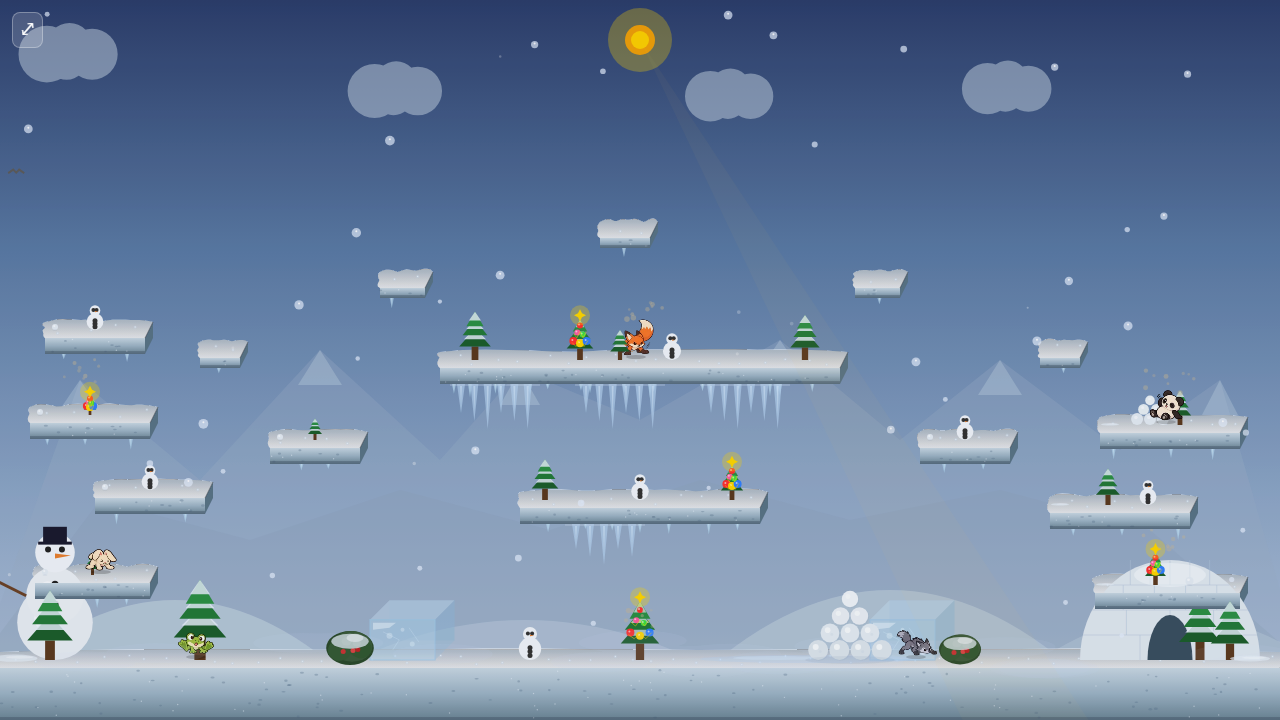
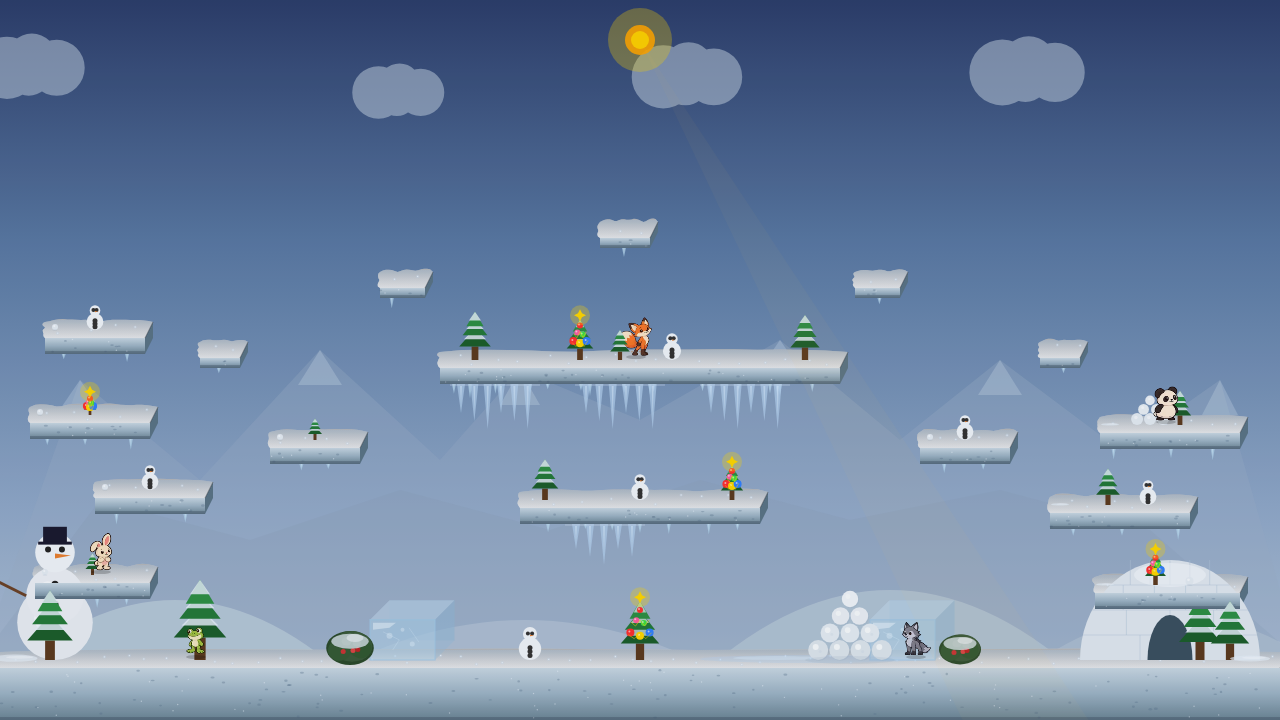
Add Winter Lake background direction studies

diff --git a/docs/mockups/winter-lake/variants.ts b/docs/mockups/winter-lake/variants.ts
@@ -1,0 +1,139 @@
+import type { Ctx2D } from '../../../src/engine/types';
+
+type Point = readonly [number, number];
+
+export const VARIANTS = ['current', 'quiet-shore', 'glacial-basin', 'violet-inlet'] as const;
+export type Variant = (typeof VARIANTS)[number];
+
+export const descriptions: Record<Exclude<Variant, 'current'>, string> = {
+  'quiet-shore': 'A wide, level frozen lake and low rolling shore leave the most breathing room around players.',
+  'glacial-basin': 'Asymmetric glacial walls make the lake feel enclosed while keeping the center jump lane open.',
+  'violet-inlet': 'A winding inlet and violet distance add storybook atmosphere, with shoreline silhouettes limited to the edges.',
+};
+
+export const skies: Record<Exclude<Variant, 'current'>, { offset: number; color: string }[]> = {
+  'quiet-shore': [
+    { offset: 0, color: '#40587D' }, { offset: .43, color: '#7796B0' },
+    { offset: .78, color: '#B6CAD2' }, { offset: 1, color: '#D4DEE0' },
+  ],
+  'glacial-basin': [
+    { offset: 0, color: '#44577B' }, { offset: .4, color: '#7892AD' },
+    { offset: .78, color: '#B2C4D4' }, { offset: 1, color: '#D1DBE1' },
+  ],
+  'violet-inlet': [
+    { offset: 0, color: '#47547B' }, { offset: .42, color: '#858EBA' },
+    { offset: .76, color: '#BFC1D3' }, { offset: 1, color: '#D9D8D8' },
+  ],
+};
+
+function band(ctx: Ctx2D, color: string, points: readonly Point[]): void {
+  ctx.fillStyle = color;
+  ctx.beginPath();
+  ctx.moveTo(points[0][0], points[0][1]);
+  for (let i = 1; i < points.length; i++) {
+    const [px, py] = points[i - 1];
+    const [x, y] = points[i];
+    ctx.quadraticCurveTo(px, py, (px + x) / 2, (py + y) / 2);
+  }
+  const [x, y] = points[points.length - 1];
+  ctx.lineTo(x, y);
+  ctx.lineTo(1280, 720);
+  ctx.lineTo(0, 720);
+  ctx.closePath();
+  ctx.fill();
+}
+
+function pine(ctx: Ctx2D, x: number, y: number, h: number, color: string): void {
+  ctx.fillStyle = color;
+  ctx.beginPath();
+  ctx.moveTo(x, y - h);
+  ctx.quadraticCurveTo(x - h * .12, y - h * .66, x - h * .35, y - h * .42);
+  ctx.quadraticCurveTo(x - h * .19, y - h * .47, x - h * .43, y - h * .12);
+  ctx.quadraticCurveTo(x, y - h * .22, x + h * .42, y - h * .12);
+  ctx.quadraticCurveTo(x + h * .19, y - h * .47, x + h * .34, y - h * .42);
+  ctx.quadraticCurveTo(x + h * .13, y - h * .67, x, y - h);
+  ctx.fill();
+}
+
+function icePlane(ctx: Ctx2D, horizon: readonly Point[], color: string, strokes: string): void {
+  band(ctx, color, horizon);
+  // A broken pale edge makes the horizontal band read as a frozen shore.
+  ctx.strokeStyle = 'rgba(232, 246, 247, 0.48)';
+  ctx.lineWidth = 4;
+  ctx.beginPath();
+  ctx.moveTo(horizon[0][0], horizon[0][1] + 2);
+  for (let i = 1; i < horizon.length; i++) {
+    const [px, py] = horizon[i - 1];
+    const [x, y] = horizon[i];
+    ctx.quadraticCurveTo(px, py + 2, (px + x) / 2, (py + y) / 2 + 2);
+  }
+  ctx.stroke();
+  ctx.fillStyle = 'rgba(226, 244, 247, 0.24)';
+  ctx.beginPath();
+  ctx.moveTo(200, 606); ctx.lineTo(420, 591); ctx.lineTo(550, 599);
+  ctx.lineTo(358, 616); ctx.closePath(); ctx.fill();
+  ctx.beginPath();
+  ctx.moveTo(850, 604); ctx.lineTo(1090, 582); ctx.lineTo(1195, 589);
+  ctx.lineTo(990, 612); ctx.closePath(); ctx.fill();
+  ctx.strokeStyle = strokes;
+  ctx.lineWidth = 2;
+  ctx.beginPath();
+  ctx.moveTo(18, 614);
+  ctx.bezierCurveTo(230, 600, 325, 616, 493, 604);
+  ctx.moveTo(590, 632);
+  ctx.bezierCurveTo(742, 618, 877, 634, 1035, 608);
+  ctx.moveTo(366, 570);
+  ctx.bezierCurveTo(503, 565, 563, 573, 680, 566);
+  ctx.stroke();
+  ctx.save();
+  ctx.globalAlpha = .55;
+  ctx.strokeStyle = strokes;
+  ctx.lineWidth = 1.5;
+  ctx.beginPath();
+  ctx.moveTo(265, 640); ctx.lineTo(308, 625); ctx.lineTo(343, 629);
+  ctx.moveTo(742, 579); ctx.lineTo(793, 591); ctx.lineTo(818, 587);
+  ctx.moveTo(1000, 646); ctx.lineTo(1036, 628); ctx.lineTo(1083, 635);
+  ctx.stroke();
+  ctx.restore();
+}
+
+function quietShore(ctx: Ctx2D): void {
+  band(ctx, '#94B0BD', [[-20, 435], [120, 410], [280, 455], [460, 403], [645, 438], [805, 395], [1000, 451], [1180, 415], [1300, 433]]);
+  band(ctx, '#ABC3C8', [[-20, 515], [145, 485], [325, 508], [510, 471], [695, 500], [875, 468], [1050, 509], [1290, 476]]);
+  band(ctx, '#799BAA', [[-20, 576], [170, 544], [325, 558], [475, 545], [650, 564], [835, 538], [1030, 565], [1300, 542]]);
+  for (const [x, y, h] of [[165, 538, 27], [240, 546, 19], [975, 551, 23], [1065, 545, 31]] as const) {
+    pine(ctx, x, y, h, '#668994');
+  }
+  icePlane(ctx, [[-20, 589], [245, 568], [435, 584], [605, 574], [785, 582], [1000, 565], [1300, 579]], '#B9D2D5', 'rgba(91, 142, 165, 0.34)');
+}
+
+function glacialBasin(ctx: Ctx2D): void {
+  band(ctx, '#A5B8CB', [[-20, 376], [112, 322], [243, 382], [350, 354], [515, 460], [690, 486], [872, 438], [1020, 333], [1140, 389], [1300, 344]]);
+  band(ctx, '#809FB5', [[-20, 442], [120, 385], [228, 430], [338, 413], [465, 514], [640, 535], [815, 503], [982, 405], [1120, 447], [1300, 391]]);
+  ctx.strokeStyle = 'rgba(226,239,240,0.55)';
+  ctx.lineWidth = 7;
+  ctx.beginPath();
+  ctx.moveTo(15, 388); ctx.quadraticCurveTo(112, 330, 220, 389);
+  ctx.moveTo(1040, 363); ctx.quadraticCurveTo(1150, 405, 1270, 354);
+  ctx.stroke();
+  band(ctx, '#6B91A5', [[-20, 555], [162, 490], [317, 507], [475, 558], [680, 573], [838, 554], [1015, 492], [1300, 513]]);
+  icePlane(ctx, [[-20, 601], [176, 565], [350, 567], [515, 582], [710, 584], [880, 575], [1065, 553], [1300, 578]], '#A9CBD3', 'rgba(62, 134, 165, 0.36)');
+}
+
+function violetInlet(ctx: Ctx2D): void {
+  band(ctx, '#A7A5BF', [[-20, 454], [110, 409], [238, 437], [404, 395], [555, 424], [700, 384], [875, 444], [1050, 407], [1300, 454]]);
+  band(ctx, '#8F9DB5', [[-20, 501], [148, 469], [302, 507], [490, 452], [650, 489], [840, 454], [1015, 497], [1300, 468]]);
+  // Two banks taper toward a broad, pale central inlet.
+  band(ctx, '#778EA5', [[-20, 542], [145, 530], [290, 553], [415, 560], [530, 590], [640, 604], [755, 620], [1280, 645]]);
+  band(ctx, '#859BAB', [[-20, 645], [465, 620], [605, 600], [740, 568], [890, 542], [1050, 526], [1300, 530]]);
+  for (const [x, y, h] of [[60, 530, 30], [145, 532, 23], [1065, 526, 27], [1170, 521, 34], [1230, 526, 21]] as const) {
+    pine(ctx, x, y, h, '#667E95');
+  }
+  icePlane(ctx, [[-20, 648], [220, 625], [430, 616], [600, 588], [755, 575], [890, 552], [1080, 550], [1300, 569]], '#C4D0DA', 'rgba(113, 126, 159, 0.34)');
+}
+
+export const drawBackdrop: Record<Exclude<Variant, 'current'>, (ctx: Ctx2D) => void> = {
+  'quiet-shore': quietShore,
+  'glacial-basin': glacialBasin,
+  'violet-inlet': violetInlet,
+};

diff --git a/docs/mockups/winter-lake/render.ts b/docs/mockups/winter-lake/render.ts
@@ -1,0 +1,71 @@
+// Production Winter Lake renderer with only the distant backdrop overridden.
+import '../../../src/i18n';
+import { Renderer } from '../../../src/engine/renderer';
+import { winterLake } from '../../../src/engine/arenas/packs/winterLake';
+import { registerArena, toArena, toThemeConfig } from '../../../src/engine/arenas/registry';
+import { registerBuiltinCharacters } from '../../../src/engine/characters';
+import { getAllCharacters } from '../../../src/engine/characters/defaults';
+import { registerPlayablePlushRoster } from '../../../src/engine/characters/plush/playableRoster';
+import { createEmptyMatchState, createInitialPlayers } from '../../../src/engine/simulator/initialState';
+import { drawBackdrop, skies, VARIANTS, type Variant } from './variants';
+
+const query = new URLSearchParams(location.search);
+const variant = query.get('variant') ?? 'current';
+const time = query.get('time') ?? 'day';
+if (!VARIANTS.includes(variant as Variant)) throw new Error(`Unknown background: ${variant}`);
+if (time !== 'day' && time !== 'night') throw new Error(`Unknown time: ${time}`);
+
+let seed = 7312;
+Math.random = () => {
+  seed = (Math.imul(seed, 1664525) + 1013904223) >>> 0;
+  return seed / 4294967296;
+};
+
+registerArena(winterLake);
+registerBuiltinCharacters();
+await registerPlayablePlushRoster();
+const arena = toArena(winterLake);
+const theme = toThemeConfig(winterLake);
+if (variant !== 'current') {
+  const selected = variant as Exclude<Variant, 'current'>;
+  theme.sky = { gradient: skies[selected] };
+  theme.hills = [];
+  theme.drawFarBackground = drawBackdrop[selected];
+}
+
+function canvas(id: string): HTMLCanvasElement {
+  const el = document.getElementById(id) as HTMLCanvasElement;
+  el.width = 1280;
+  el.height = 720;
+  return el;
+}
+
+const renderer = new Renderer({
+  bgCanvas: canvas('bg'), bgNightCanvas: canvas('night'), fgCanvas: canvas('fg'),
+  fgNightTint: document.querySelector('.tint') as HTMLDivElement,
+  lightCanvas: canvas('light'), hudCanvas: canvas('hud'), theme,
+});
+const state = createEmptyMatchState();
+state.phase = 'playing';
+state.timeElapsed = 18;
+state.dayPhase = time === 'night' ? .5 : 0;
+state.players = createInitialPlayers(['P1', 'P2', 'P3', 'P4', 'P5'], arena, false, Math.random);
+const byName = new Map(getAllCharacters().map(character => [character.name, character]));
+const placements = [
+  ['Bunny', 85, 540], ['Frog', 180, 625], ['Fox', 620, 325],
+  ['Wolf', 900, 625], ['Panda', 1150, 390],
+] as const;
+state.players.forEach((player, i) => {
+  const [name, x, y] = placements[i];
+  const character = byName.get(name);
+  if (!character) throw new Error(`Missing ${name}`);
+  player.character = character;
+  player.x = x;
+  player.y = y;
+  player.score = 0;
+  player.facing = i % 2 ? 'left' : 'right';
+});
+renderer.warmSpriteCache(state.players.map(player => player.character.name));
+renderer.renderBackground(arena);
+renderer.renderFrame(state, arena, []);
+document.documentElement.dataset.ready = 'true';

diff --git a/docs/mockups/winter-lake/render.html b/docs/mockups/winter-lake/render.html
@@ -1,0 +1,21 @@
+<!doctype html>
+<html lang="en">
+<meta charset="utf-8">
+<title>Winter Lake background studies</title>
+<style>
+  html, body { margin: 0; background: #111; }
+  .scene { position: relative; width: 1280px; height: 720px; isolation: isolate; }
+  .scene canvas, .tint { position: absolute; inset: 0; width: 1280px; height: 720px; }
+  #bg { z-index: 1; }
+  #night { z-index: 2; opacity: 0; }
+  #fg { z-index: 3; }
+  .tint { z-index: 4; opacity: 0; background: rgb(80, 100, 160); mix-blend-mode: multiply; }
+  #light { z-index: 5; opacity: 0; mix-blend-mode: screen; }
+  #hud { z-index: 8; visibility: hidden; }
+</style>
+<div class="scene">
+  <canvas id="bg"></canvas><canvas id="night"></canvas><canvas id="fg"></canvas>
+  <div class="tint"></div><canvas id="light"></canvas><canvas id="hud"></canvas>
+</div>
+<script type="module" src="./render.ts"></script>
+</html>

diff --git a/docs/mockups/winter-lake/README.md b/docs/mockups/winter-lake/README.md
@@ -6,7 +6,7 @@ This is the audit before changing the arena artwork. The game calls this arena *
 
 | Noon | Midnight |
 | --- | --- |
-| ![Current Winter Lake at noon](current-day.png) | ![Current Winter Lake at midnight](current-night.png) |
+| ![Current Winter Lake at noon](live-current-day.png) | ![Current Winter Lake at midnight](live-current-night.png) |
 
 These are 1280 × 720 captures from the live Vite match renderer at the same camera and fixed positions. Bunny, Frog, Fox, Wolf, and Panda sample pale, green, warm, dark, and black-and-white character palettes. The HUD is hidden because its preselected bot names do not follow this capture's temporary character substitutions. Spawned carrots, springs, and thorns are cleared for a stable art comparison; their arena-specific artwork remains in scope for a later pass. The game loop is paused after placement, so noon and night compare the same poses and positions. Weather and aurora still animate in the renderer.
 
@@ -26,6 +26,21 @@ Reproduce with `npx vite --host 127.0.0.1 --port 4222` from the repo root, then 
 **A storybook alpine lake in winter.** Make the frozen lake a readable geographical feature: a broad, calm frozen plane or shoreline behind the lower playfield, with irregular distant slopes and a few grounded pines. Use cool muted blue, slate, and violet in the distance; reserve crisp snowy whites and darker ink for the playable foreground. Let a restrained aurora become the night signature. Keep the scene playful through snow sculpture and small details, but reduce the Christmas-tree/ornament rhythm so the arena looks like a place rather than a holiday display.
 
 This is an art direction for mockups, not approval to remove any specific existing prop. In the background pass, compare at least a quiet alpine shoreline and a more dramatic glacial-basin composition against the current scene. The next pass should decide sky and land shapes before spending effort on new platform or prop drawings.
+
+## Step 2: background studies
+
+The following images use the same production `Renderer`, Winter Lake platforms, props, plush characters, clouds, and night treatment. Only the sky gradient, configured hills, and `drawFarBackground` differ. Fixed player positions, a seeded initial cloud layout, and a single frozen animation time make the four directions directly comparable. The HUD and spawned items are hidden. These are design fixtures, not evidence of in-game integration or animated-cloud behavior.
+
+| Direction | Noon | Midnight | What it tests |
+| --- | --- | --- | --- |
+| **Current, matched fixture** | ![Current Winter Lake, noon](current-day.png) | ![Current Winter Lake, midnight](current-night.png) | Existing triangular mountains and indistinct lower ground. |
+| **Quiet shore** | ![Quiet shore, noon](quiet-shore-day.png) | ![Quiet shore, midnight](quiet-shore-night.png) | A broad horizontal ice sheet, low rolling distant shore, and the calmest space around players. |
+| **Glacial basin** | ![Glacial basin, noon](glacial-basin-day.png) | ![Glacial basin, midnight](glacial-basin-night.png) | Taller asymmetric snow walls framing a central opening and stronger sense of enclosure. |
+| **Violet inlet** | ![Violet inlet, noon](violet-inlet-day.png) | ![Violet inlet, midnight](violet-inlet-night.png) | A winding frozen inlet and violet distance that separate warm characters and add a more distinctive mood. |
+
+**Assessment:** Quiet shore best establishes the lake without crowding the platforms, though its landscape may need a stronger landmark. Glacial basin has more scale, but its side walls approach the outer jump lanes and the broad snow curves could read as hills rather than cliffs. Violet inlet has the most character; its diagonal shore leads the eye toward the center, but the pale ice is close in value to the current snow platforms. My preferred base is Quiet shore, potentially borrowing Violet inlet's restrained violet sky. The repeated decorated trees and snowmen remain in every image; they will be addressed in the prop pass rather than being quietly removed during background selection.
+
+The fixture and variant functions are in [`render.ts`](render.ts) and [`variants.ts`](variants.ts). To reproduce, run Vite on port 4222 and then `node docs/mockups/winter-lake/capture-variants.mjs`. The earlier live-match baseline above remains available to compare the fixture with the game.
 
 ## Gameplay and render constraints
 
